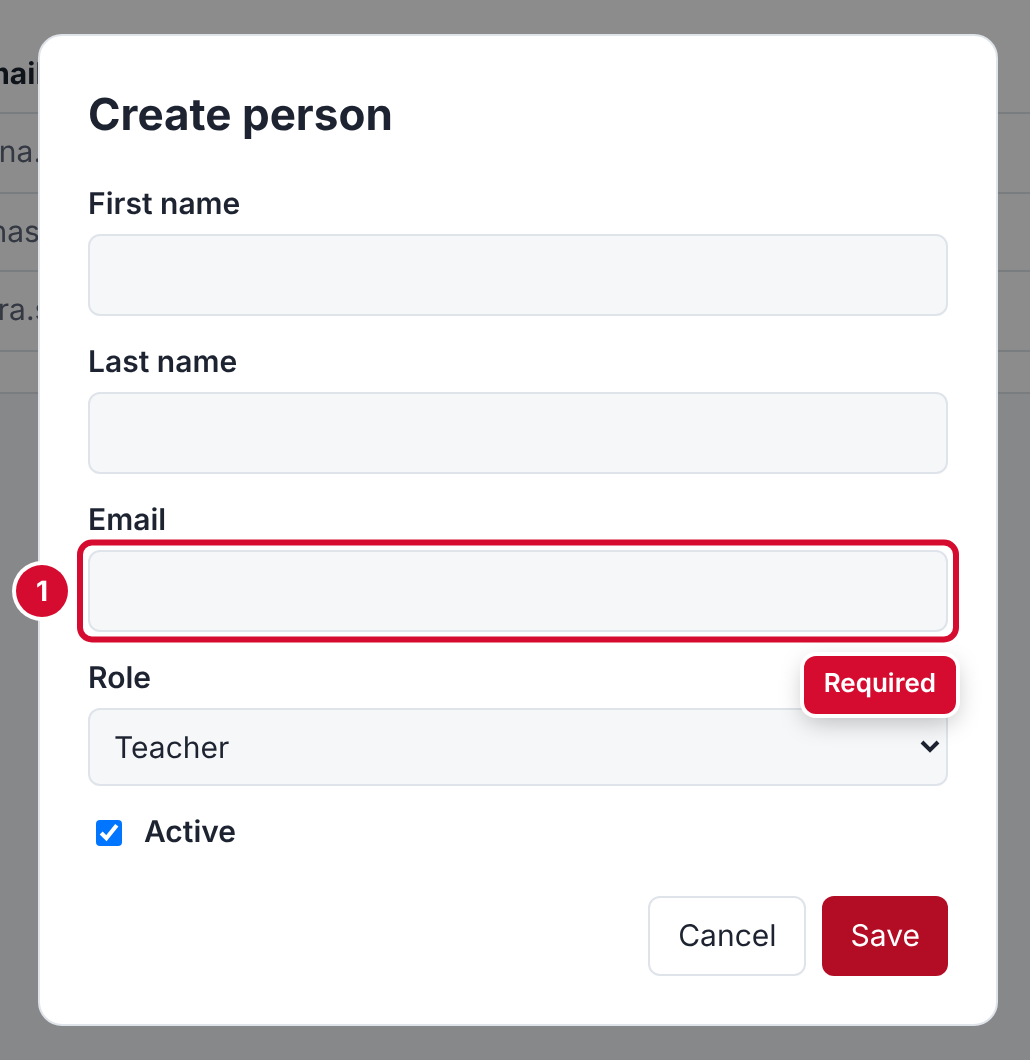
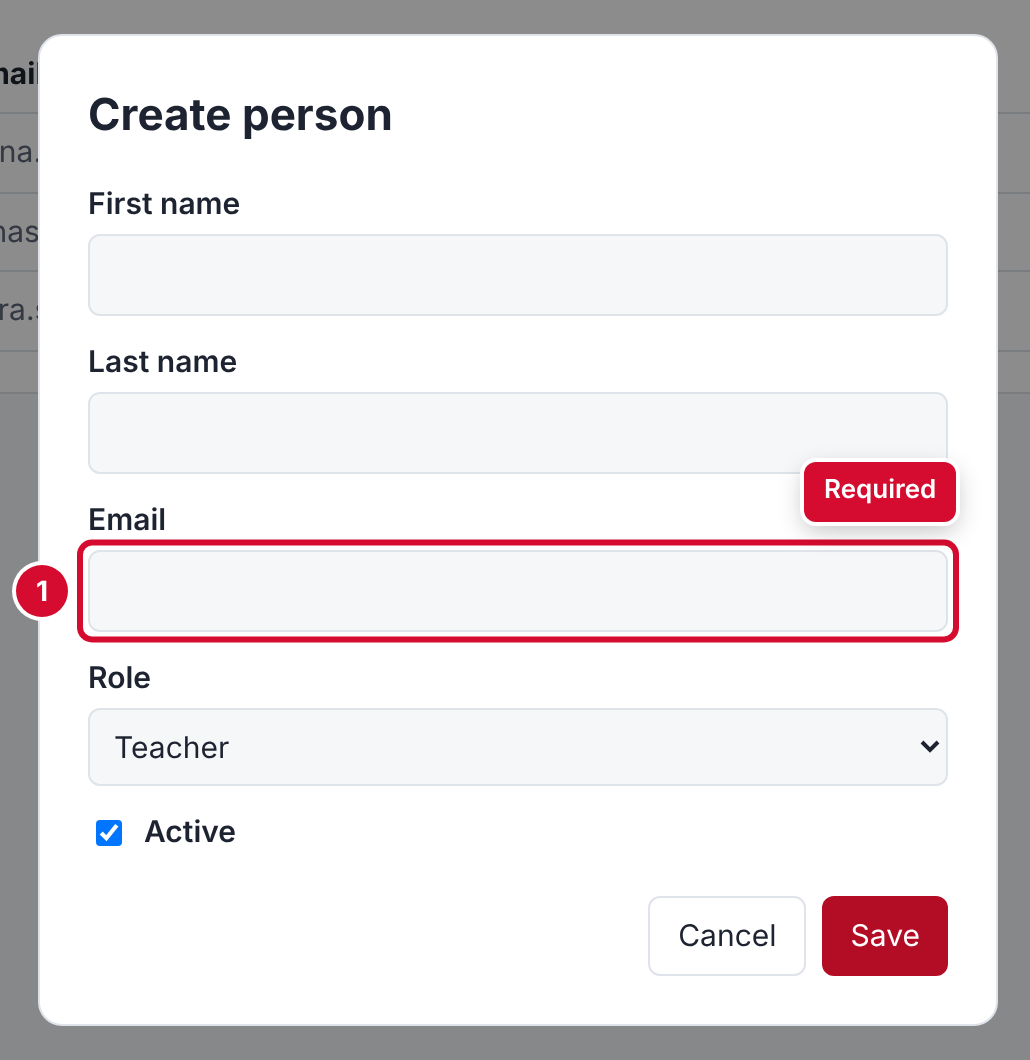
[TASK] harmonize the gherking stuff

Changed region(s): [[0.7767, 0.5915, 0.932, 0.6849], [0.7767, 0.4358, 0.932, 0.5292]]

diff --git a/src/overlay.ts b/src/overlay.ts
@@ -41,8 +41,8 @@ export function documentSizeInPage(): { width: number; height: number } {
  * Runs in the browser (must be self-contained – it is serialized by Playwright).
  * Draws all marks into one absolutely positioned layer in document coordinates.
  */
-export function drawOverlaysInPage(args: { marks: MeasuredMark[]; theme: OverlayTheme; attr: string }): void {
-  const { marks, theme, attr } = args;
+export function drawOverlaysInPage(args: { marks: MeasuredMark[]; theme: OverlayTheme; attr: string; bounds?: Rect }): Rect[] {
+  const { marks, theme, attr, bounds } = args;
   const NS = 'http://www.w3.org/2000/svg';
   const d = document.documentElement;
   const width = Math.max(d.scrollWidth, document.body ? document.body.scrollWidth : 0);
@@ -116,17 +116,38 @@ export function drawOverlaysInPage(args: { marks: MeasuredMark[]; theme: Overlay
     }
   }
   layer.appendChild(svg);
+  document.documentElement.appendChild(layer);
+
+  // ── notes: measured, then placed where they cover the least ───────────────
+  type Box = { x: number; y: number; w: number; h: number };
+  const area = (a: Box, b: Box) =>
+    Math.max(0, Math.min(a.x + a.w, b.x + b.w) - Math.max(a.x, b.x)) * Math.max(0, Math.min(a.y + a.h, b.y + b.h) - Math.max(a.y, b.y));
+
+  // things a note should not cover: visible text and controls (no big containers), plus all marks
+  const viewportArea = window.innerWidth * window.innerHeight;
+  const obstacles: Box[] = [];
+  document.querySelectorAll('h1,h2,h3,h4,h5,h6,label,button,a,input,select,textarea,th,td,p,li,img,svg,[role="button"],[role="link"],[role="tab"]').forEach((node) => {
+    const r = (node as Element).getBoundingClientRect();
+    if (r.width < 2 || r.height < 2 || r.width * r.height > viewportArea * 0.25) return;
+    const cs = getComputedStyle(node as Element);
+    if (cs.visibility === 'hidden' || cs.display === 'none' || Number(cs.opacity) === 0) return;
+    obstacles.push({ x: r.left + window.scrollX, y: r.top + window.scrollY, w: r.width, h: r.height });
+  });
+  // marked elements and their outlines (badges sit 16px outside) – the note's own element only exactly
+  const markBox = (m: MeasuredMark, extra: number): Box => ({ x: m.rect.x - PAD - extra, y: m.rect.y - PAD - extra, w: m.rect.width + (PAD + extra) * 2, h: m.rect.height + (PAD + extra) * 2 });
+  const placedNotes: Box[] = [];
 
   for (const mark of marks) {
     if (!mark.note) continue;
     const note = document.createElement('div');
     note.textContent = mark.note;
     Object.assign(note.style, {
-      // right-aligned below the element: the left side usually holds the next label
       position: 'absolute',
-      right: Math.max(4, width - (mark.rect.x + mark.rect.width + PAD)) + 'px',
-      top: mark.rect.y + mark.rect.height + PAD + 8 + 'px',
+      left: '0px',
+      top: '0px',
+      visibility: 'hidden',
       maxWidth: '280px',
+      width: 'max-content',
       background: theme.color,
       color: theme.textColor,
       font: `600 13px/1.35 ${theme.fontFamily}`,
@@ -136,13 +157,59 @@ export function drawOverlaysInPage(args: { marks: MeasuredMark[]; theme: Overlay
       whiteSpace: 'normal',
     });
     layer.appendChild(note);
+    const nw = note.offsetWidth;
+    const nh = note.offsetHeight;
+
+    const r = mark.rect;
+    const ex = r.x - PAD, ey = r.y - PAD, ew = r.width + PAD * 2, eh = r.height + PAD * 2;
+    const G = 10;
+    const candidates: Box[] = [];
+    if (mark.style === 'arrow') {
+      const fromLeft = r.x > 110;
+      const tailX = fromLeft ? ex - 84 : ex + ew + 84;
+      const tailY = r.y + r.height / 2 - 48;
+      const gap = mark.label ? 24 : G;
+      candidates.push(
+        fromLeft ? { x: tailX - gap - nw, y: tailY - nh / 2, w: nw, h: nh } : { x: tailX + gap, y: tailY - nh / 2, w: nw, h: nh }, // beside the tail
+        { x: tailX - nw / 2, y: tailY - gap - nh, w: nw, h: nh },                 // above the tail
+        { x: ex + ew - nw, y: ey + eh + G, w: nw, h: nh },                        // below the element, right-aligned
+        { x: ex, y: ey + eh + G, w: nw, h: nh },                                  // below the element, left-aligned
+        { x: ex + ew - nw, y: ey - G - nh, w: nw, h: nh },                        // above the element
+      );
+    } else {
+      candidates.push(
+        { x: ex + ew - nw, y: ey + eh + G, w: nw, h: nh },                        // below, right-aligned
+        { x: ex + ew + G, y: ey + eh / 2 - nh / 2, w: nw, h: nh },               // right
+        { x: ex + ew - nw, y: ey - G - nh, w: nw, h: nh },                        // above, right-aligned
+        { x: ex, y: ey + eh + G, w: nw, h: nh },                                  // below, left-aligned
+        { x: ex - G - nw, y: ey + eh / 2 - nh / 2, w: nw, h: nh },               // left
+      );
+    }
+
+    let best = candidates[0];
+    let bestScore = Infinity;
+    candidates.forEach((c, i) => {
+      let score = i * 50; // keep the natural order when everything is free
+      if (c.x < 4 || c.y < 4 || c.x + c.w > width - 4 || c.y + c.h > height - 4) score += 1e9; // outside the page
+      // stay inside the crop of an element screenshot if at all possible
+      if (bounds && (c.x < bounds.x || c.y < bounds.y || c.x + c.w > bounds.x + bounds.width || c.y + c.h > bounds.y + bounds.height)) score += 1e6;
+      for (const o of obstacles) score += area(c, o);
+      for (const m of marks) score += area(c, markBox(m, m === mark ? 0 : 16)) * 2;
+      for (const p of placedNotes) score += area(c, p) * 10;
+      if (score < bestScore) { bestScore = score; best = c; }
+    });
+    // nothing fits inside the page → clamp the natural position
+    const x = Math.min(Math.max(4, best.x), width - nw - 4);
+    const y = Math.min(Math.max(4, best.y), height - nh - 4);
+    Object.assign(note.style, { left: x + 'px', top: y + 'px', visibility: '' }); // inherit from the layer
+    placedNotes.push({ x, y, w: nw, h: nh });
   }
 
-  document.documentElement.appendChild(layer);
 
   // Modal <dialog>s and popovers live in the browser's top layer, above any z-index.
   // Promoting the overlay to a popover puts it into the top layer as well – shown last, so on top.
   // position:absolute in the top layer is relative to the initial containing block = document coords.
+  // (inline on purpose: page.evaluate only serializes this one function)
   const promotable = layer as HTMLElement & { showPopover?: () => void };
   if (typeof promotable.showPopover === 'function') {
     layer.setAttribute('popover', 'manual');
@@ -153,6 +220,12 @@ export function drawOverlaysInPage(args: { marks: MeasuredMark[]; theme: Overlay
       /* not supported – keep the normal layer */
     }
   }
+  return placedNotes.map((b) => ({ x: b.x - 4, y: b.y - 4, width: b.w + 8, height: b.h + 8 }));
+}
+
+/** Runs in the browser: hide/show the overlay layer (for the clean shot with the same crop). */
+export function setOverlayVisibleInPage(args: { attr: string; visible: boolean }): void {
+  document.querySelectorAll(`[${args.attr}]`).forEach((n) => ((n as HTMLElement).style.visibility = args.visible ? 'visible' : 'hidden'));
 }
 
 /** Runs in the browser. */
@@ -172,7 +245,10 @@ export function decoratedRect(mark: MeasuredMark): Rect {
     else right = x + width + 110;
     top = Math.min(top, y + height / 2 - 66);
   }
-  if (mark.note) bottom = Math.max(bottom, y + height + 70);
+  if (mark.note && mark.style === 'arrow') {
+    if (x > 110) left = Math.min(left, x - 110 - 300);
+    else right = Math.max(right, x + width + 110 + 300);
+  } else if (mark.note) bottom = Math.max(bottom, y + height + 70);
   return { x: left, y: top, width: right - left, height: bottom - top };
 }
 

diff --git a/src/steps/vocabulary.ts b/src/steps/vocabulary.ts
@@ -32,8 +32,11 @@ const LETTERS = 'A-Za-zÄÖÜäöüß';
 const ART = '(?:(?:den|die|das|dem|der|einen|eine|ein|the|a|an) )?';
 const T = `${ART}(?<kind>[${LETTERS}]+) "(?<name>[^"]*)"`;
 const Q = (name: string) => `"(?<${name}>[^"]*)"`;
-const LABEL_NOTE_DE = `(?: mit ${Q('label')})?(?: und (?:dem )?Hinweis ${Q('note')})?`;
-const LABEL_NOTE_EN = `(?: with (?:label )?${Q('label')})?(?: and (?:a )?note ${Q('note')})?`;
+// One shared suffix for every marking step (markiere / zeige mit einem Pfeil / …):
+//   … mit "1"   … und mit "1"   … und Hinweis "x"   … und dem Hinweis "x"   … mit dem Hinweis "x"
+// Number and note are optional and can be combined: … und mit "2" und dem Hinweis "Pflichtfeld"
+const LABEL_NOTE_DE = `(?: (?:und )?mit (?:der Nummer )?${Q('label')})?(?: (?:und|mit) (?:dem )?Hinweis ${Q('note')})?`;
+const LABEL_NOTE_EN = `(?: (?:and )?with (?:label |number )?${Q('label')})?(?: (?:and|with) (?:a |the )?note ${Q('note')})?`;
 const re = (...parts: string[]) => new RegExp(`^${parts.join('')}$`);
 
 const target = (ctx: VocabContext, a: VocabArgs) => ctx.target(a.kind!, a.name!);
@@ -202,8 +205,17 @@ export const VOCABULARY: VocabEntry[] = [
       en: [re('(?:I )?highlight ', T, LABEL_NOTE_EN), re('(?:I )?outline ', T, LABEL_NOTE_EN)],
     },
     examples: {
-      de: ['Dann markiere den Button "Speichern"', 'Und markiere das Feld "Vorname" mit "1"', 'Und markiere das Feld "E-Mail" mit "2" und Hinweis "Pflichtfeld"'],
-      en: ['Then highlight the button "Save" with "1"', 'And highlight the field "Email" with "2" and note "Required"'],
+      de: [
+        'Dann markiere den Button "Speichern"',
+        'Dann markiere das Feld "Vorname" mit "1"',
+        'Dann markiere das Feld "E-Mail" mit "2" und Hinweis "Pflichtfeld"',
+        'Dann markiere den Link "Hilfe" und dem Hinweis "Öffnet die Anleitung"',
+      ],
+      en: [
+        'Then highlight the button "Save"',
+        'Then highlight the field "First name" with "1"',
+        'Then highlight the field "Email" with "2" and note "Required"',
+      ],
     },
     run: async (ctx, a) => {
       ctx.docshot.highlight(target(ctx, a), { label: opt(a.label), note: opt(a.note), description: `${a.kind} "${a.name}"` });
@@ -215,7 +227,17 @@ export const VOCABULARY: VocabEntry[] = [
       de: [re('(?:ich )?zeige (?:mit einem Pfeil )?auf ', T, LABEL_NOTE_DE)],
       en: [re('(?:I )?point (?:with an arrow )?(?:at|to) ', T, LABEL_NOTE_EN)],
     },
-    examples: { de: ['Und zeige mit einem Pfeil auf den Link "Hilfe"'], en: ['And point at the link "Help"'] },
+    examples: {
+      de: [
+        'Dann zeige mit einem Pfeil auf den Button "Hilfe"',
+        'Dann zeige mit einem Pfeil auf das Feld "Suche" und mit "2"',
+        'Dann zeige mit einem Pfeil auf den Link "Hilfe" und mit "2" und dem Hinweis "Pflichtfeld"',
+      ],
+      en: [
+        'Then point at the button "Help"',
+        'Then point at the link "Help" and with "2" and the note "Required"',
+      ],
+    },
     run: async (ctx, a) => {
       ctx.docshot.pointAt(target(ctx, a), { label: opt(a.label), note: opt(a.note), description: `${a.kind} "${a.name}"` });
     },

diff --git a/src/fixture.ts b/src/fixture.ts
@@ -8,7 +8,7 @@ import { peer } from './peer';
 const { test: base } = peer<typeof PlaywrightBdd>('playwright-bdd');
 import {
   decoratedRect, documentSizeInPage, drawOverlaysInPage, measureInPage, OVERLAY_ATTR,
-  removeOverlaysInPage, union, type MarkStyle, type MeasuredMark, type OverlayTheme, type Rect,
+  removeOverlaysInPage, setOverlayVisibleInPage, union, type MarkStyle, type MeasuredMark, type OverlayTheme, type Rect,
 } from './overlay';
 
 export interface DocshotVariant {
@@ -155,13 +155,25 @@ export class Docshot {
       measured.push({ rect, style: mark.style, label: mark.label, note: mark.note });
     }
 
-    let clip: Rect | undefined;
+    // draw first: notes find their place in the page, the crop then follows the real positions
+    let targetBounds: Rect | undefined;
+    let targetRect: Rect | undefined;
     if (options.target) {
-      const targetRect = await options.target.evaluate(measureInPage);
+      targetRect = await options.target.evaluate(measureInPage);
       const pad = opts.docshotPadding;
+      targetBounds = { x: targetRect.x - pad, y: targetRect.y - pad, width: targetRect.width + pad * 2, height: targetRect.height + pad * 2 };
+    }
+    const noteBoxes = measured.length
+      ? await page.evaluate(drawOverlaysInPage, { marks: measured, theme: opts.docshotTheme, attr: OVERLAY_ATTR, bounds: targetBounds })
+      : [];
+
+    let clip: Rect | undefined;
+    if (targetRect && targetBounds) {
+      const near = (r: Rect) => intersects(r, targetBounds!);
       const covered = union([
-        { x: targetRect.x - pad, y: targetRect.y - pad, width: targetRect.width + pad * 2, height: targetRect.height + pad * 2 },
-        ...measured.filter((m) => intersects(m.rect, targetRect)).map(decoratedRect),
+        targetBounds,
+        ...measured.filter((m) => intersects(m.rect, targetRect!)).map((m) => decoratedRect({ ...m, note: undefined })),
+        ...noteBoxes.filter(near),
       ]);
       const doc = await page.evaluate(documentSizeInPage);
       clip = clampRect(covered, doc);
@@ -183,11 +195,12 @@ export class Docshot {
         maskColor: opts.docshotMaskColor,
       });
 
-    if (cleanFile) await shot(cleanFile);
-    if (measured.length) {
-      await page.evaluate(drawOverlaysInPage, { marks: measured, theme: opts.docshotTheme, attr: OVERLAY_ATTR });
-    }
     try {
+      if (cleanFile) {
+        if (measured.length) await page.evaluate(setOverlayVisibleInPage, { attr: OVERLAY_ATTR, visible: false });
+        await shot(cleanFile);
+        if (measured.length) await page.evaluate(setOverlayVisibleInPage, { attr: OVERLAY_ATTR, visible: true });
+      }
       await shot(file);
     } finally {
       if (measured.length) await page.evaluate(removeOverlaysInPage, OVERLAY_ATTR);

diff --git a/README.md b/README.md
@@ -232,6 +232,27 @@ DOCSHOTS_AI_TIMEOUT_MS=180000
 Images and the page's ARIA snapshot are sent to the configured API, so use a self-hosted
 model when screenshots may contain personal data.
 
+## Marking steps
+
+Every marking step takes the same optional suffixes, in this order: a number, then a note.
+
+```gherkin
+Dann markiere den Button "Speichern"
+Dann markiere das Feld "Vorname" mit "1"
+Dann markiere das Feld "E-Mail" mit "2" und Hinweis "Pflichtfeld"
+Dann zeige mit einem Pfeil auf den Link "Hilfe"
+Dann zeige mit einem Pfeil auf den Link "Hilfe" und mit "2" und dem Hinweis "Pflichtfeld"
+Und verdecke das Feld "E-Mail"
+```
+
+- The number can be written `mit "1"` or `und mit "1"`.
+- The note can be written `und Hinweis "…"`, `und dem Hinweis "…"` or `mit dem Hinweis "…"`.
+- English: `with "1"`, `and note "…"`, `and with "2" and the note "…"`.
+
+Notes are measured in the page. They are placed beside the arrow tail or next to the
+element, wherever they cover the least text, controls and other marks. For element
+screenshots they stay inside the crop if possible; otherwise the crop grows to include them.
+
 ## CLI
 
 ```bash

diff --git a/example/Documentation/Screenshots/Schritte.rst b/example/Documentation/Screenshots/Schritte.rst
@@ -52,9 +52,12 @@ Markieren
 ..  code-block:: gherkin
 
     Dann markiere den Button "Speichern"
-    Und markiere das Feld "Vorname" mit "1"
-    Und markiere das Feld "E-Mail" mit "2" und Hinweis "Pflichtfeld"
-    Und zeige mit einem Pfeil auf den Link "Hilfe"
+    Dann markiere das Feld "Vorname" mit "1"
+    Dann markiere das Feld "E-Mail" mit "2" und Hinweis "Pflichtfeld"
+    Dann markiere den Link "Hilfe" und dem Hinweis "Öffnet die Anleitung"
+    Dann zeige mit einem Pfeil auf den Button "Hilfe"
+    Dann zeige mit einem Pfeil auf das Feld "Suche" und mit "2"
+    Dann zeige mit einem Pfeil auf den Link "Hilfe" und mit "2" und dem Hinweis "Pflichtfeld"
     Und verdecke das Feld "E-Mail"
 
 Screenshot

diff --git a/example/Documentation/Admin/Persons.rst b/example/Documentation/Admin/Persons.rst
@@ -43,7 +43,7 @@ Personenliste
     @lang:de
     Angenommen ich bin angemeldet als "schooladmin"
     Wenn ich die Seite "/administration/persons" öffne
-    Dann zeige mit einem Pfeil auf den Button "Neue Person"
+    Dann zeige mit einem Pfeil auf den Button "Neue Person" und mit "1" und dem Hinweis "Neue Person anlegen"
     Und verdecke die Spalte "E-Mail"
     Und erstelle einen Screenshot
 
